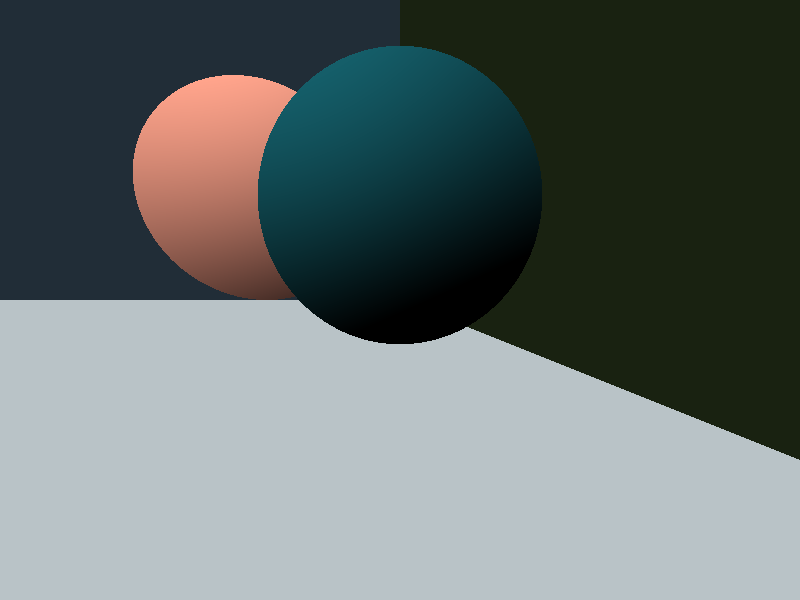
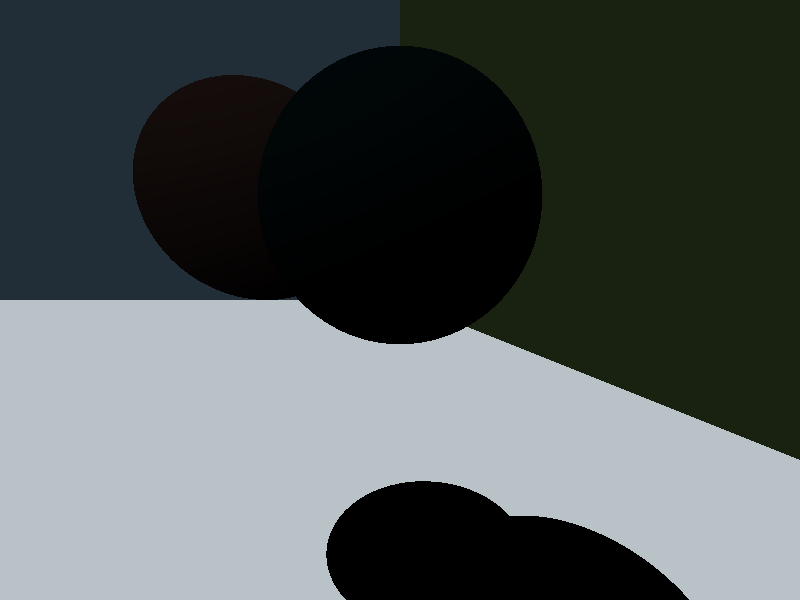
generalized trace & mostly working shadows

Changed region(s): [[0.1562, 0.06, 0.6875, 0.51], [0.4062, 0.78, 0.875, 1.0]]

diff --git a/src/shapes.rs b/src/shapes.rs
@@ -35,9 +35,9 @@ pub trait Intersectable {
     //returns tuple of distance to the intersection and the point of intersection
     fn intersect(&self, ray: &Ray) -> Option<(f64, Vector3<f64>)>;
     //returns an RGB struct of the desired pixel
-    fn get_pixel(&mut self, hit_point: Vector3<f64>, light: &DirectionalLight) -> image::Rgb<u8>;
+    fn get_pixel(&self, hit_point: &Vector3<f64>, scene: &Scene) -> image::Rgb<u8>;
     //returns a vector representing the surface normal of the object
-    fn surface_normal(&self, hit_point: Vector3<f64>) -> Vector3<f64>;
+    fn surface_normal(&self, hit_point: &Vector3<f64>) -> Vector3<f64>;
 }
 
 /*-------------Implementations----------*/
@@ -50,16 +50,16 @@ impl Intersectable for Object {
         }
     }
 
-    fn get_pixel(&mut self, hit_point: Vector3<f64>, light: &DirectionalLight) -> image::Rgb<u8> {
+    fn get_pixel(&self, hit_point: &Vector3<f64>, scene: &Scene) -> image::Rgb<u8> {
 
         match self {
-            Object::Sphere(s) => s.get_pixel(hit_point, light),
-            Object::Plane(p) => p.get_pixel(hit_point, light),
+            Object::Sphere(s) => s.get_pixel(hit_point, scene),
+            Object::Plane(p) => p.get_pixel(hit_point, scene),
         }
         
     }
 
-    fn surface_normal(&self, hit_pt: Vector3<f64>) -> Vector3<f64> {
+    fn surface_normal(&self, hit_pt: &Vector3<f64>) -> Vector3<f64> {
         match self {
             Object::Sphere(s) => s.surface_normal(hit_pt),
             Object::Plane(p) => p.surface_normal(hit_pt),
@@ -83,26 +83,30 @@ impl Intersectable for Plane {
         None
     }
 
-    fn get_pixel(&mut self, hit_point: Vector3<f64>, light: &DirectionalLight) -> image::Rgb<u8> {
+    fn get_pixel(&self, hit_point: &Vector3<f64>, scene: &Scene) -> image::Rgb<u8> {
+        let shadow_bias = 1e-13;
         let surface_normal = self.surface_normal(hit_point);
-        let direction_to_light = -light.direction.normalize();
-        let light_power = (direction_to_light.dot(surface_normal)).max(0.0) * light.intensity;
-        let light_reflected = self.albedo / std::f64::consts::PI;
-
+        let direction_to_light = -scene.light.direction.normalize();
 
         let shadow_ray = Ray {
-            origin: hit_point,
+            origin: *hit_point + (surface_normal * shadow_bias),
             direction: direction_to_light,
         };
 
-        //fn takes shadow ray and scene
-        //returns none or some
-        //if some: do shadow
+        let in_light = shadow_ray.trace(&scene);
 
-        //let illuminated = scene.trace(&shadow_ray);
+        let light_intensity = match in_light {
+            None => scene.light.intensity,
+            Some(a) => 0.0
+        };
 
-        
-        let color = (&(&(&self.color * &light.color) * light_power) * light_reflected).clamp();
+        //let light_intensity = if in_light != None {scene.light.intensity} else {0.0};
+
+        let light_power = (direction_to_light.dot(surface_normal)).max(0.0) * light_intensity;
+        let light_reflected = self.albedo / std::f64::consts::PI;
+
+
+        let color = (&(&(&self.color * &scene.light.color) * light_power) * light_reflected).clamp();
 
         //let color = &self.color;
         
@@ -110,7 +114,7 @@ impl Intersectable for Plane {
         
     }
 
-    fn surface_normal(&self, hit_pt: Vector3<f64>) -> Vector3<f64> {
+    fn surface_normal(&self, hit_pt: &Vector3<f64>) -> Vector3<f64> {
         -self.normal
     } 
 
@@ -128,7 +132,6 @@ impl Intersectable for Sphere {
         let radius2 = self.radius * self.radius;
 
         if d2 > radius2 {
-            //println!("1");
             None
         } else {
             //more pythagorean theorem below
@@ -141,34 +144,32 @@ impl Intersectable for Sphere {
         }   
     }
 
-    fn get_pixel(&mut self, hit_point: Vector3<f64>, light: &DirectionalLight) -> image::Rgb<u8> {
-        
+    fn get_pixel(&self, hit_point: &Vector3<f64>, scene: &Scene) -> image::Rgb<u8> {
+        let shadow_bias = 1e-13;
         let surface_normal = self.surface_normal(hit_point);
-        let direction_to_light = -light.direction;
-        let light_power = (surface_normal.dot(direction_to_light)).max(0.0) * light.intensity;
-        let light_reflected = self.albedo / std::f64::consts::PI;
-
+        let direction_to_light = -scene.light.direction.normalize();
 
         let shadow_ray = Ray {
-            origin: hit_point,
+            origin: *hit_point + (surface_normal * shadow_bias),
             direction: direction_to_light,
         };
 
-        //fn takes shadow ray and scene
-        //returns none or some
-        //if some: do shadow
+        let in_light = shadow_ray.trace(&scene);
 
-        //let illuminated = scene.trace(&shadow_ray);
+        let light_intensity = match in_light {
+            None => scene.light.intensity,
+            Some(a) => 0.0
+        };
 
-        
-        let color = (&(&(&self.color * &light.color) * light_power) * light_reflected).clamp();
+        let light_power = (direction_to_light.dot(surface_normal)).max(0.0) * light_intensity;
+        let light_reflected = self.albedo / std::f64::consts::PI;
 
-        //let color = &self.color;
+        let color = (&(&(&self.color * &scene.light.color) * light_power) * light_reflected).clamp();
         
         image::Rgb([(255.0 * color.r) as u8, (255.0 * color.g) as u8, (255.0 * color.b) as u8])
     }
 
-    fn surface_normal(&self, hit_pt: Vector3<f64>) -> Vector3<f64> {
+    fn surface_normal(&self, hit_pt: &Vector3<f64>) -> Vector3<f64> {
         (hit_pt - self.center).normalize()
     }
 }

diff --git a/src/scene.rs b/src/scene.rs
@@ -90,30 +90,15 @@ impl Renderable for Scene {
             //create prime ray
             //if the prime ray intersects with the objects in the scene
             //*px = get pixel of object
-            let mut rgb = image::Rgb([(255.0 * self.background_color.r) as u8, (255.0 * self.background_color.g) as u8, (255.0 * self.background_color.b) as u8]);
-            let mut min_dist: f64 = std::f64::INFINITY;
             let pr: Ray = Ray::create_prime_ray(x, y, self);
+            let hit_obj = pr.trace(&self);
 
-            //prime_ray.trace(self.objects)
-
-
-        
-            for obj in &mut self.objects {
-                //let tmp = obj.get_pixel(&pr);
-
-                match obj.intersect(&pr) {
-                    None => {},
-                    Some((dist, hit_pt)) => if dist < min_dist {
-                        min_dist = dist;
-                        rgb = obj.get_pixel(hit_pt, &self.light);
-                    },
-                }
-
-                //*px = rgb; 
+            match hit_obj {
+                None => *px = image::Rgb([(255.0 * self.background_color.r) as u8,
+                                        (255.0 * self.background_color.g) as u8,
+                                        (255.0 * self.background_color.b) as u8]),
+                Some(a) => *px = a,
             }
-
-            *px = rgb;
-          
         }
 
         imgbuf

diff --git a/src/rays.rs b/src/rays.rs
@@ -14,15 +14,10 @@ pub struct Ray {
 }
 
 /*-------------Traits-------------------*/
-/*
+
 pub trait Traceable {
-    fn trace(&self, objects: Vec<Object>) -> image::Rgb<u8>;
-
-
-    //prime_ray.trace(self.objects)
-
+    fn trace(&self, scene: &Scene) -> Option<image::Rgb<u8>>;
 }
-*/
 
 /*-------------Implementations----------*/
 
@@ -43,8 +38,32 @@ impl Ray {
     }
 }
 
-//impl Traceable for Ray {
+impl Traceable for Ray {
     /*So that's it, huh? We're some kind of... Ray Tracer??*/
-    
+    fn trace(&self, scene: &Scene) -> Option<image::Rgb<u8>> {
+        
+        let mut ans = None;
 
-//}
+        let mut min_dist: f64 = std::f64::INFINITY;
+
+        for obj in scene.objects.iter() {
+
+            match obj.intersect(&self) {
+                None => {},
+                Some((dist, hit_pt)) if dist < min_dist =>  {
+                    min_dist = dist;
+                    ans = Some(obj.get_pixel(&hit_pt, &scene));
+                },
+                Some(_) => {},
+            }
+ 
+        }
+        //print!("{}\n", min_dist);
+        //if min_dist <= 9.0 {
+          //  print!("same");
+        //}
+        ans
+
+    }
+
+}

diff --git a/src/main.rs b/src/main.rs
@@ -105,9 +105,9 @@ fn create_scene() -> Scene {
     };
 
     let light1 = DirectionalLight {
-        //direction: cgmath::Vector3::new(10.0, -3.0, 5.0),
-        direction: cgmath::Vector3::new(4.0, -9.0, 1.0),
-        //direction: cgmath::Vector3::new(1.0, 1.0, -1.0),
+        //direction: cgmath::Vector3::new(3.0, -10.0, 1.0),
+        direction: cgmath::Vector3::new(4.0, -9.0, -1.0),
+        //direction: cgmath::Vector3::new(2.0, 1.0, -1.0),
 
         color: Color {
             
